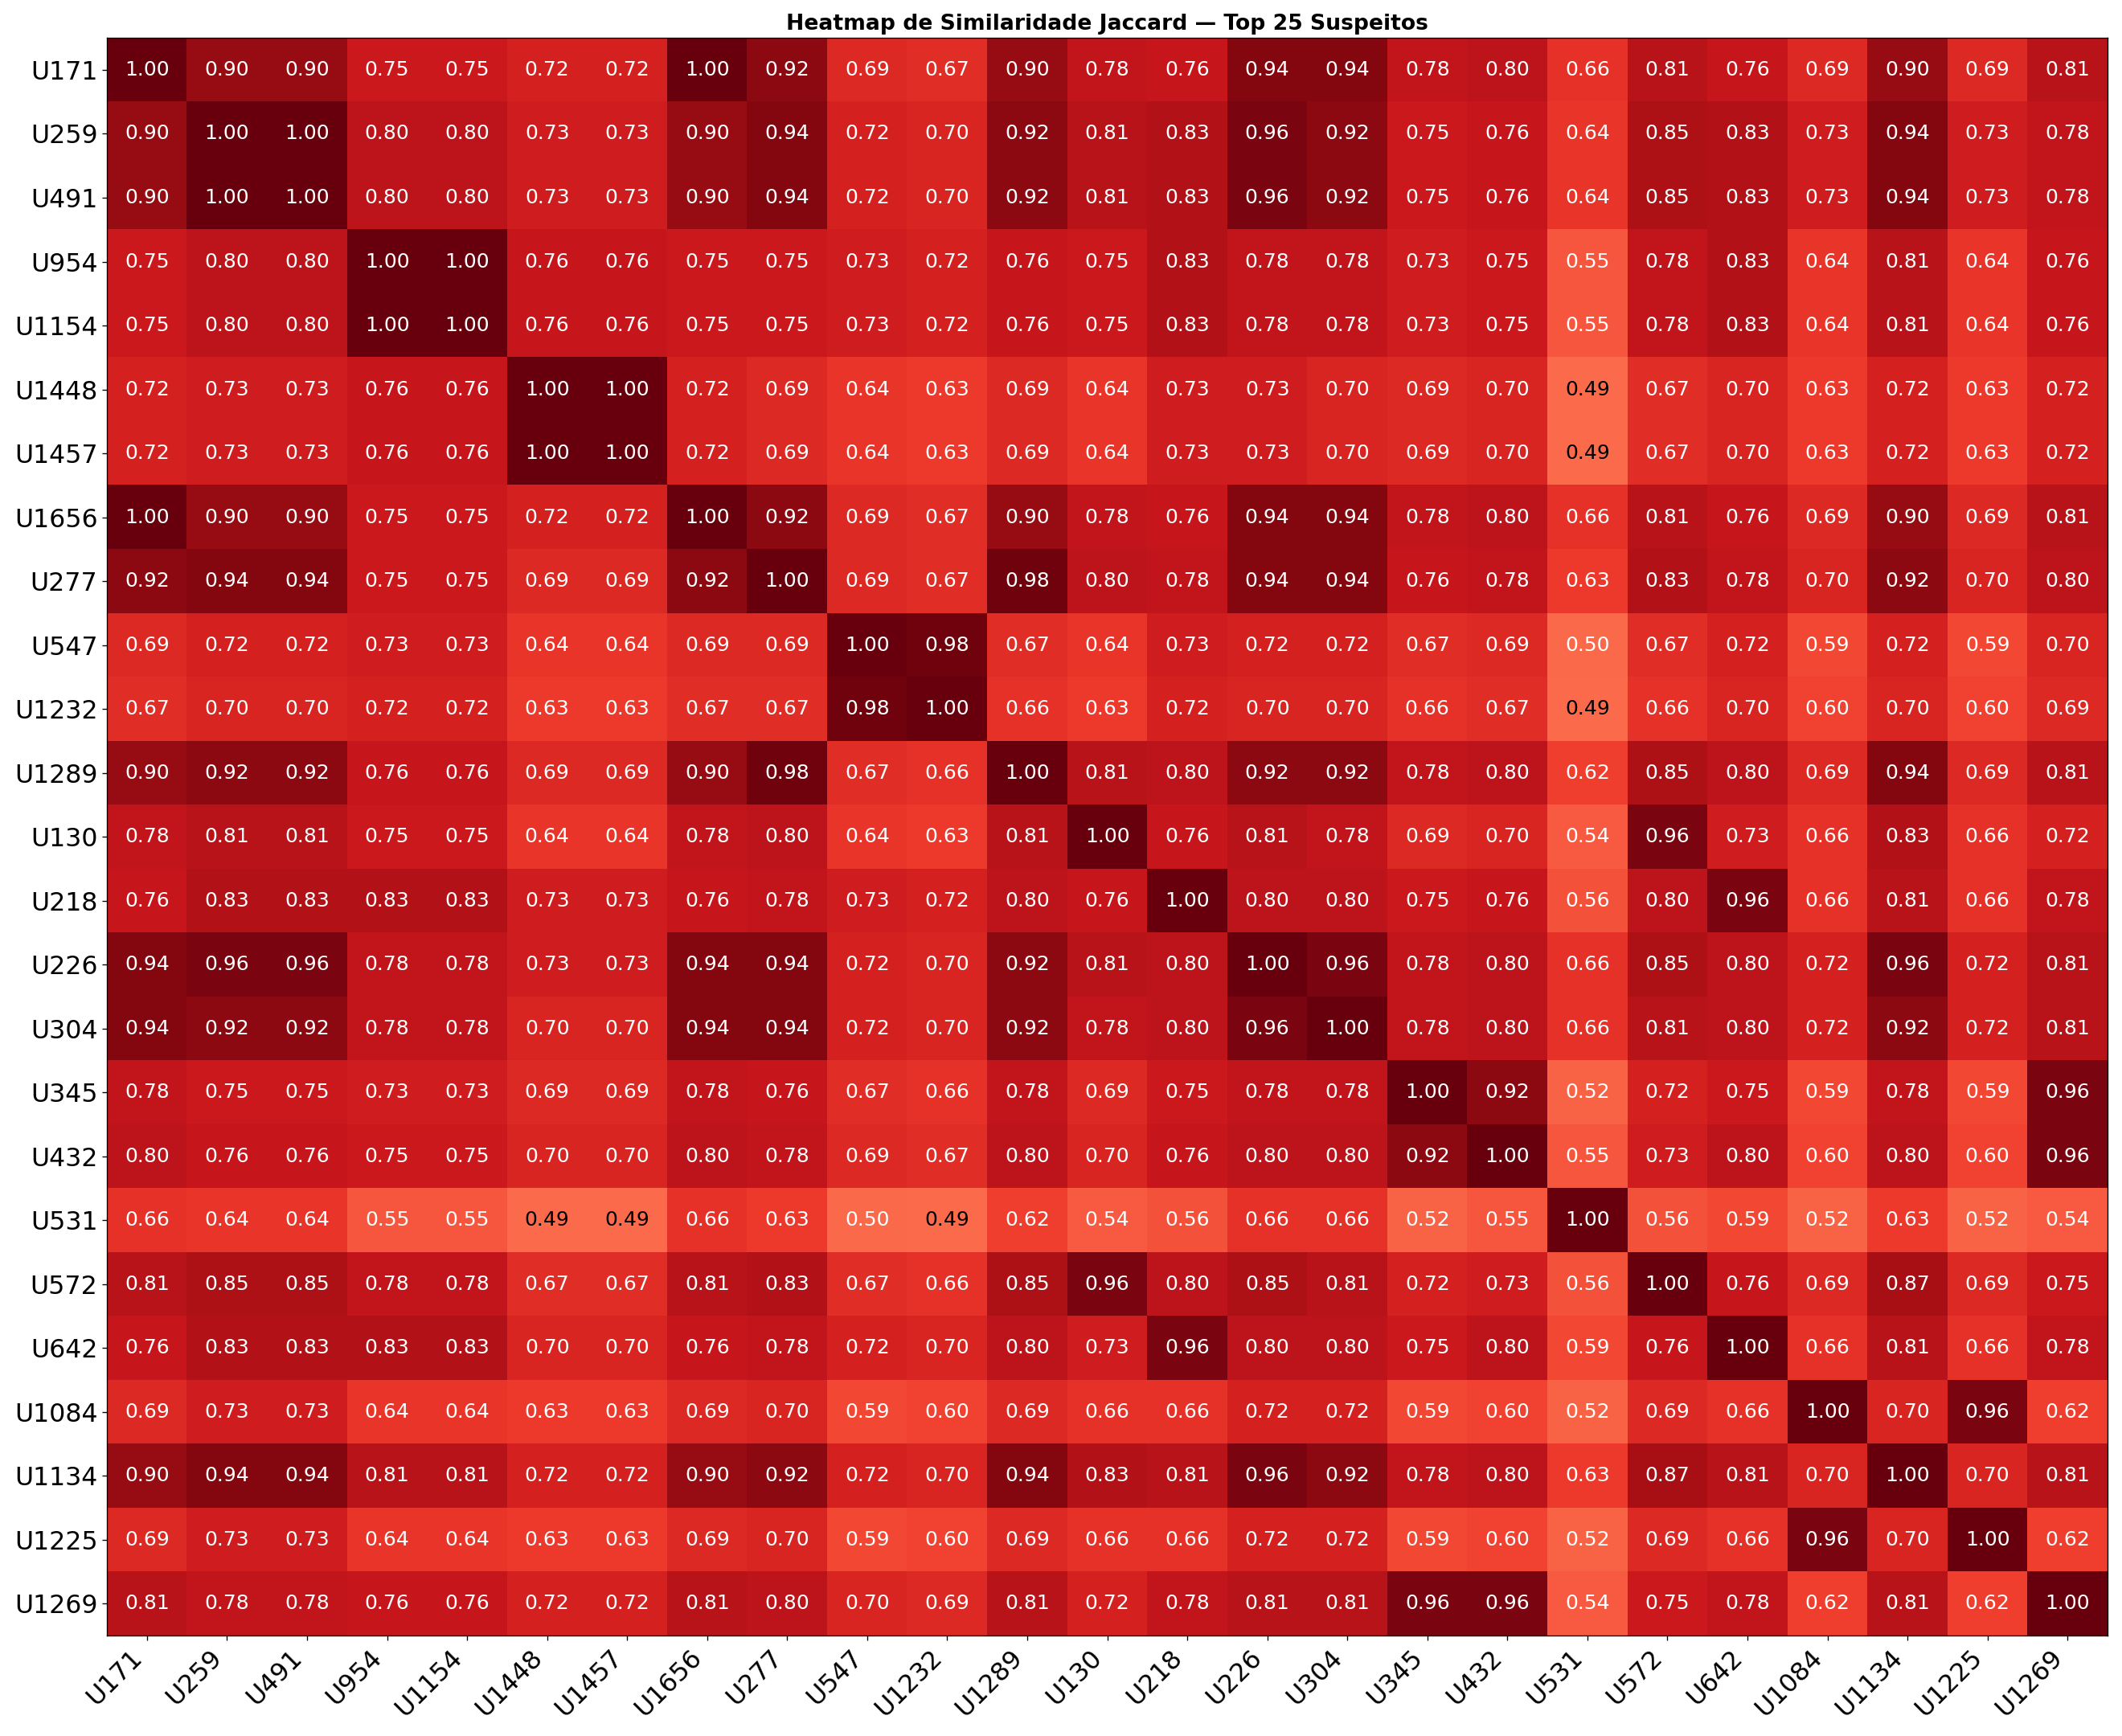
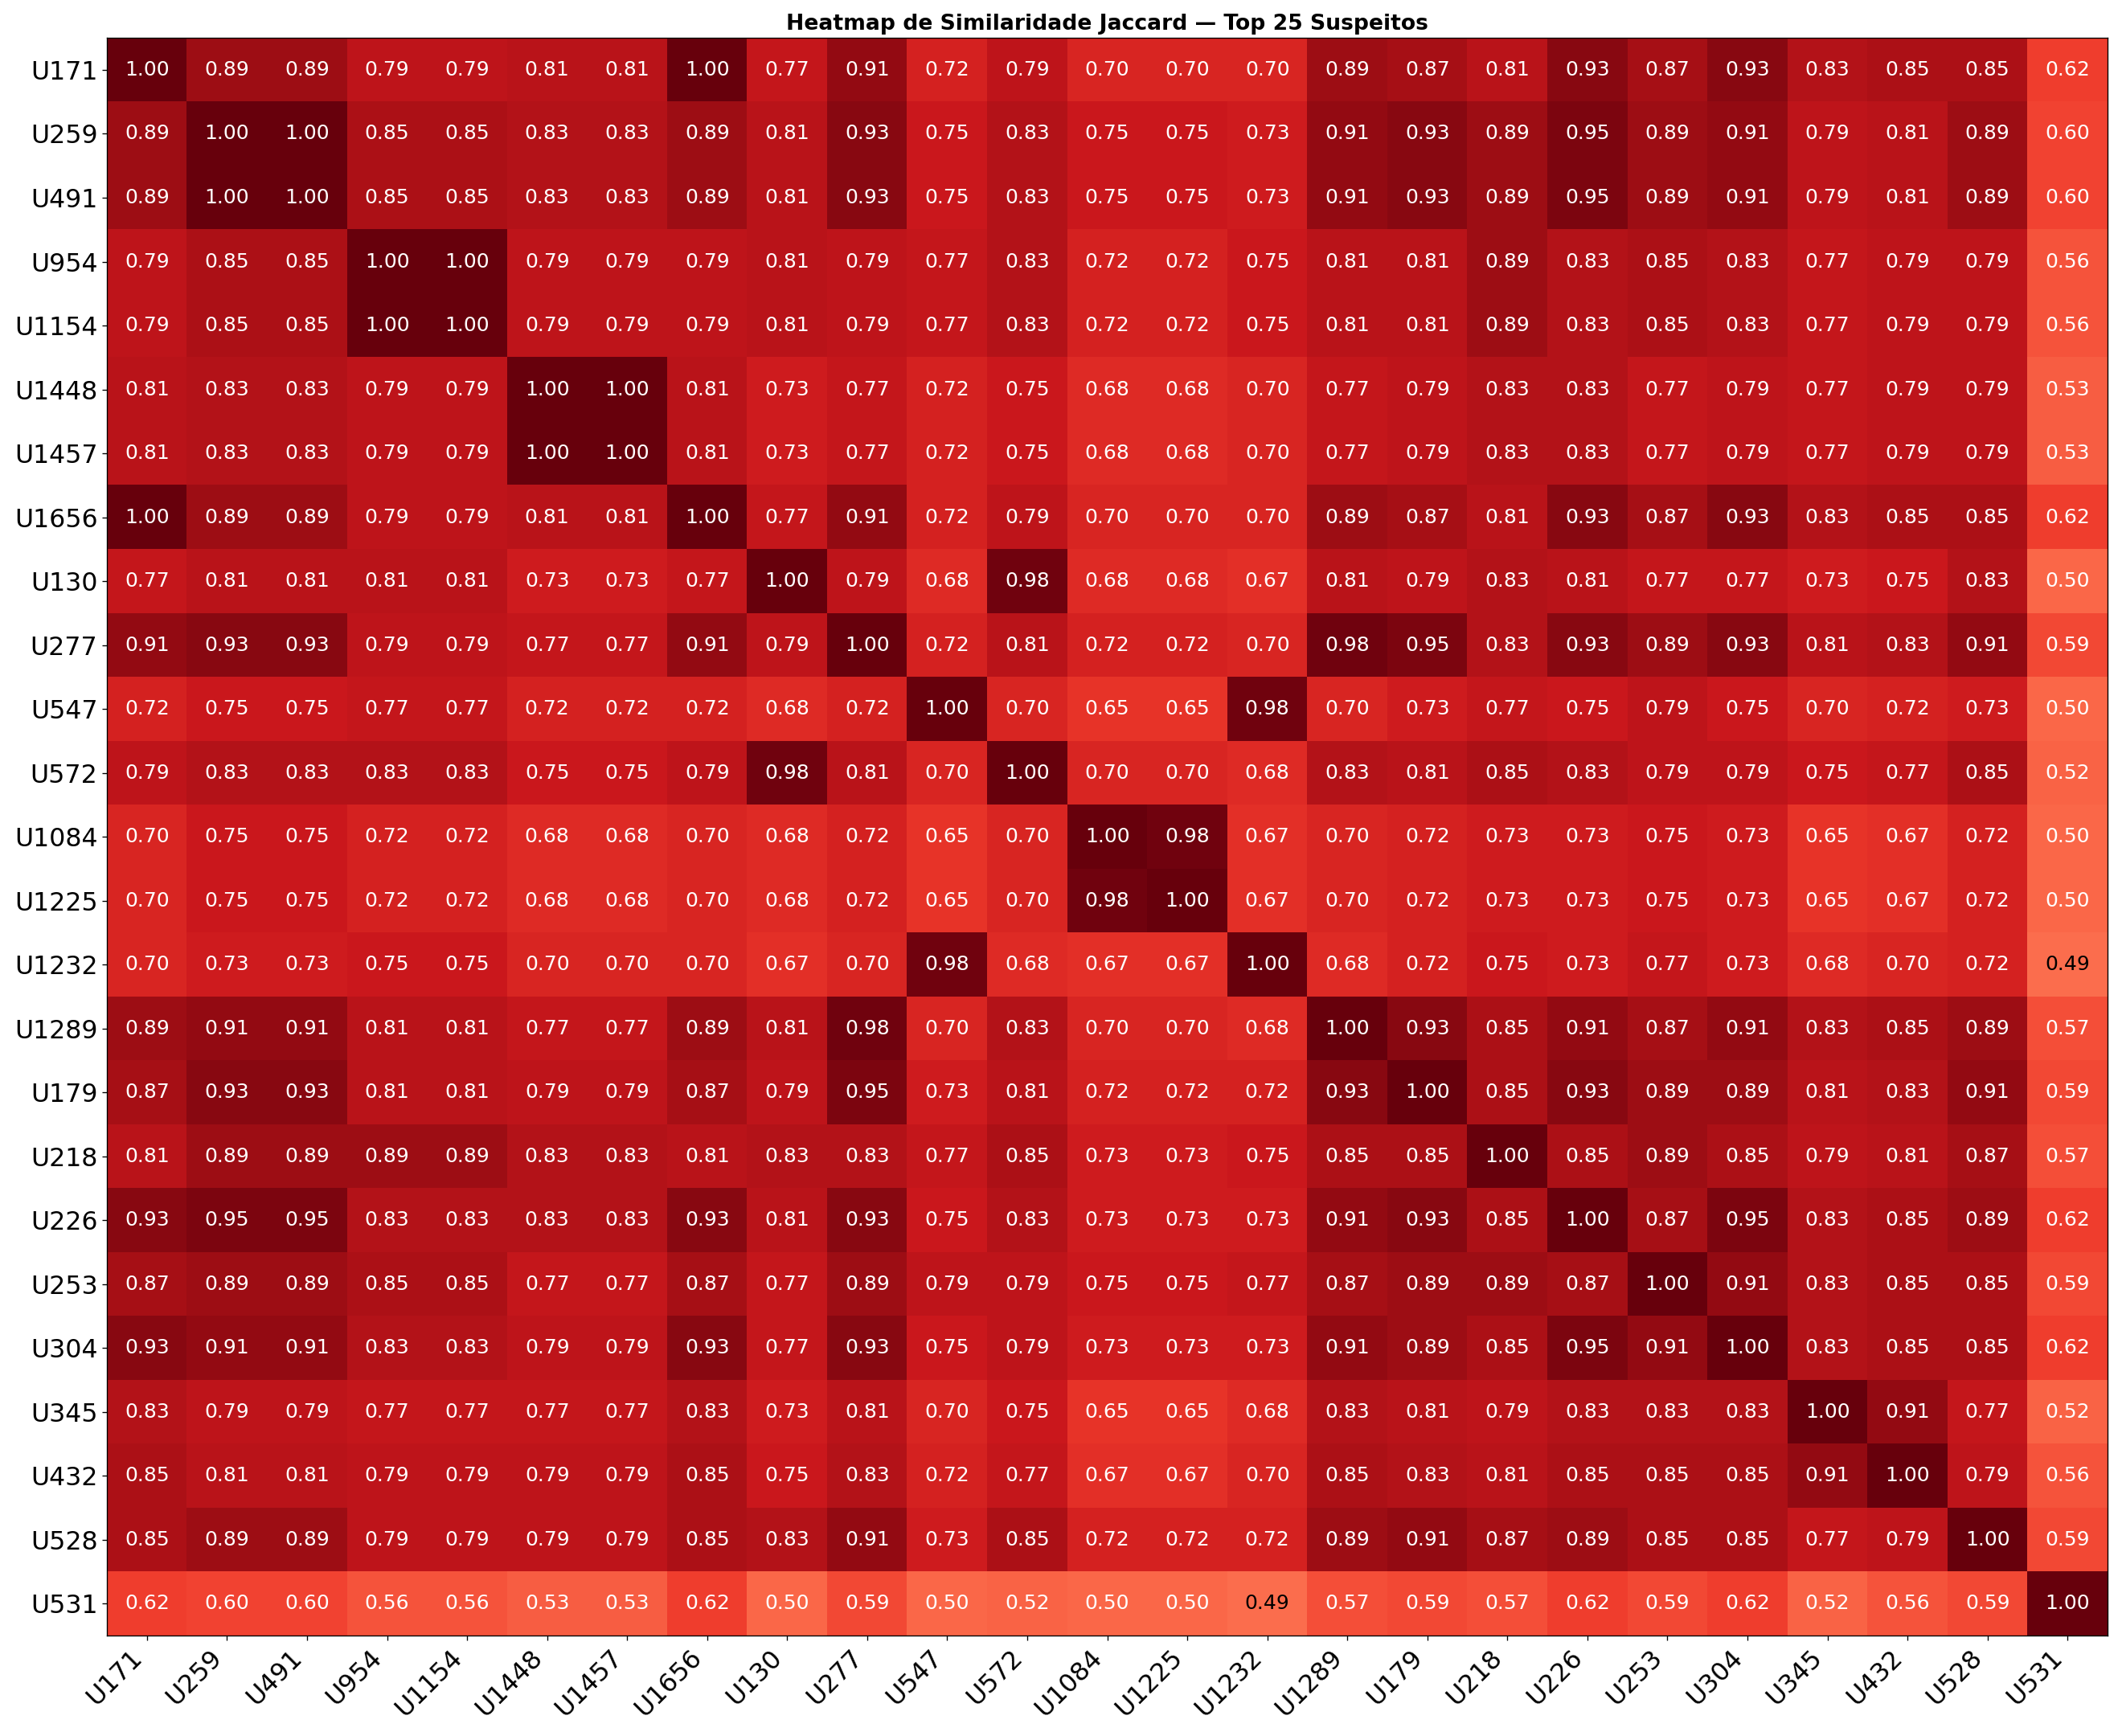
improve code readbility and table relation

diff --git a/src/services/hamming_service.py b/src/services/hamming_service.py
@@ -1,37 +1,79 @@
-class HammingService:
-    """
-    Serviço de detecção de cola baseado na Distância de Hamming.
+import random
+import numpy as np
 
-    A distância de Hamming conta o número de posições onde duas sequências
-    diferem. Adaptada para comparar sequências de respostas de alunos,
-    tratando posições ausentes como divergentes.
-    """
+
+class HammingService:
 
     @staticmethod
-    def hamming_distance(seq1, seq2):
-        """
-        Calcula a distância de Hamming entre duas sequências de respostas.
-        Posições presentes em apenas uma das sequências são contadas como diferentes.
-        Retorna o número inteiro de posições divergentes.
-        """
-        max_len = max(len(seq1), len(seq2)) if (seq1 or seq2) else 0
-        count = 0
-        for i in range(max_len):
-            a = seq1[i] if i < len(seq1) else None
-            b = seq2[i] if i < len(seq2) else None
-            if a != b:
-                count += 1
-        return count
+    def hamming_distance(a, b):
+        if len(a) != len(b):
+            raise ValueError("Sequences must be of equal length")
+        distance = 0
+        for i in range(len(a)):
+            if a[i] != b[i]:
+                distance += 1
+        return distance
 
     @staticmethod
     def hamming_similarity(seq1, seq2):
         """
-        Calcula a similaridade de Hamming normalizada entre 0 e 1.
-        Similaridade 1.0 indica sequências idênticas.
-        Similaridade 0.0 indica que todas as posições diferem.
+        Pairwise similarity compatible with ComparisonService.compare.
+        seq1, seq2 are sets or lists of (itemId, respostaUsuario) tuples.
+        Sorts by itemId to ensure consistent ordering before comparison.
+        Returns float 0.0-1.0.
         """
-        max_len = max(len(seq1), len(seq2)) if (seq1 or seq2) else 0
-        if max_len == 0:
+        s1 = [r for _, r in sorted(seq1, key=lambda x: x[0])]
+        s2 = [r for _, r in sorted(seq2, key=lambda x: x[0])]
+
+        n = max(len(s1), len(s2))
+        if n == 0:
             return 1.0
-        distance = HammingService.hamming_distance(seq1, seq2)
-        return 1 - (distance / max_len)
+
+        dist = HammingService.hamming_distance(s1, s2)
+        return (n - dist) / n
+
+    @staticmethod
+    def kmeans_hamming(responses_cache, k=2, max_iter=10):
+        """
+        K-means clustering using Hamming distance.
+        responses_cache: dict {user_id: [{'itemId': ..., 'respostaUsuario': ...}, ...]}
+        Returns: dict {user_id: cluster_id}
+        """
+        user_ids = list(responses_cache.keys())
+        sequences = [
+            [item['respostaUsuario'] for item in sorted(responses_cache[uid], key=lambda x: x['itemId'])]
+            for uid in user_ids
+        ]
+
+        if len(sequences) < k:
+            return {uid: 0 for uid in user_ids}
+
+        centers = random.sample(sequences, k)
+
+        for _ in range(max_iter):
+            clusters = {i: [] for i in range(k)}
+
+            for seq in sequences:
+                distances = [HammingService.hamming_distance(seq, c) for c in centers]
+                cluster_id = int(np.argmin(distances))
+                clusters[cluster_id].append(seq)
+
+            new_centers = []
+            for cluster in clusters.values():
+                if not cluster:
+                    new_centers.append(random.choice(sequences))
+                    continue
+                center = []
+                for i in range(len(cluster[0])):
+                    values = [seq[i] for seq in cluster if i < len(seq)]
+                    center.append(max(set(values), key=values.count))
+                new_centers.append(center)
+
+            centers = new_centers
+
+        student_clusters = {}
+        for uid, seq in zip(user_ids, sequences):
+            distances = [HammingService.hamming_distance(seq, c) for c in centers]
+            student_clusters[uid] = int(np.argmin(distances))
+
+        return student_clusters

diff --git a/src/models/respostas_lake.py b/src/models/respostas_lake.py
@@ -12,34 +12,36 @@ class RespostasLake(db.Model):
     itemId = db.Column(db.Integer, nullable=False)
     respostaUsuario = db.Column(db.String(255), nullable=True)
     userId = db.Column(db.Integer, nullable=False)
+    tipoProva           = db.Column(db.String(10), nullable=True)
+    dataHoraFim         = db.Column(db.DateTime, nullable=True)
+    salvarTempoResposta = db.Column(db.Boolean, nullable=True)
+
 
     def __repr__(self):
-        return f'<RespostasLake {self.id} - {self.tipo_acao}>'
+        return f'<RespostasLake {self.id}>'
 
     def to_dict(self):
         return {
             'id': self.id,
+            'sourceId': self.sourceId,
+            'contestId': self.contestId,
             'respondidaEm': self.respondidaEm.isoformat() if self.respondidaEm else None,
-            'tipo_acao': self.tipo_acao,
             'itemId': self.itemId,
-            'fonte': self.fonte,
             'respostaUsuario': self.respostaUsuario,
-            'plataforma': self.plataforma,
-            'userId': self.userId
+            'userId': self.userId,
+            'tipoProva': self.tipoProva,
+            'dataHoraFim': self.dataHoraFim.isoformat() if self.dataHoraFim else None,
+            'salvarTempoResposta': self.salvarTempoResposta,
         }
 
     @staticmethod
     def get_user_exam_metadata(exam_id):
-        """Retorna {userId: [{tipoProva, dataHoraFim}]} para o examId (idProva)."""
+        """Retorna {userId: [{tipoProva, dataHoraFim}]} para o examId."""
         rows = db.session.execute(
             db.text("""
-                SELECT u.id AS userId,
-                       ap.tipo AS tipoProva,
-                       rp.dataHoraFim
-                FROM users u
-                JOIN realiza_prova rp ON u.cpf = rp.cpf
-                JOIN APLICACAO_PROVA ap ON rp.idAplicacao = ap.idAplicacao
-                WHERE ap.idProva = :examId
+                SELECT DISTINCT userId, tipoProva, dataHoraFim
+                FROM respostas_lake
+                WHERE contestId = :examId
             """),
             {"examId": exam_id}
         ).fetchall()
@@ -58,7 +60,7 @@ class RespostasLake(db.Model):
     @staticmethod
     def get_salvar_tempo_resposta(exam_id):
         result = db.session.execute(
-            db.text("SELECT salvarTempoResposta FROM PROVA WHERE idProva = :examId"),
+            db.text("SELECT salvarTempoResposta FROM respostas_lake WHERE contestId = :examId AND salvarTempoResposta IS NOT NULL LIMIT 1"),
             {"examId": exam_id}
         ).fetchone()
         if result is None:

diff --git a/src/services/comparasion_service.py b/src/services/comparasion_service.py
@@ -2,8 +2,7 @@ from datetime import datetime
 from src.models.respostas_lake import RespostasLake
 from src.services.damerau_levenshtein_service import DamerauLevenshteinService
 from src.services.jaccard_service import JaccardService
-from src.services.kmeans_levenshtein_service import KMeansLevenshteinService
-
+from src.services.hamming_service import HammingService
 
 class ComparisonService:
     # pylint: disable=no-method-argument,redefined-outer-name,reimported,import-outside-toplevel
@@ -64,7 +63,7 @@ class ComparisonService:
                 uid: RespostasLake.select_user_questions(uid, exam_id, withTimestamp=with_timestamp)
                 for uid in all_users
             }
-        return KMeansLevenshteinService.kmeans_hamming(responses_cache, k=k, max_iter=max_iter)
+        return HammingService.kmeans_hamming(responses_cache, k=k, max_iter=max_iter)
 
     @staticmethod
     def process_user_batch(user_batch, all_users, exam_id=None, responses_cache=None, with_timestamp=None):
@@ -100,9 +99,9 @@ class ComparisonService:
                                                            respostas_other_user,
                                                            JaccardService.jaccard_index)
 
-                lev_result = ComparisonService.compare(current_user_response,
-                                                       respostas_other_user,
-                                                       KMeansLevenshteinService.hamming_similarity)
+                hamming_result = ComparisonService.compare(current_user_response,
+                                                          respostas_other_user,
+                                                          HammingService.hamming_similarity)
 
                 if with_timestamp:
                     dl_result = ComparisonService.compare_by_timestamp(current_user_response,
@@ -127,7 +126,7 @@ class ComparisonService:
 
                 result['jaccard_index'] = jaccard_result
                 result['dl_similarity'], result['dl_operations'] = dl_result
-                result['lev_similarity'] = lev_result
+                result['hamming_similarity'] = hamming_result
 
                 batch_results.append(result)
 

diff --git a/src/controllers/comparison_controller.py b/src/controllers/comparison_controller.py
@@ -71,7 +71,7 @@ def compare_similarity(query_args):
         {
             'user': item['user'],
             'compared_with': item['compared_with'],
-            'lev_similarity': item.get('lev_similarity'),
+            'hamming_similarity': item.get('hamming_similarity'),
             'jaccard_index': item.get('jaccard_index'),
             'dl_similarity': item.get('dl_similarity'),
             'dl_operations': item.get('dl_operations'),

diff --git a/src/schemas.py b/src/schemas.py
@@ -67,7 +67,7 @@ class ComparisonItemSchema(ma.Schema):
     jaccard_index = ma.fields.Float(allow_none=True)
     dl_similarity = ma.fields.Float(allow_none=True)
     dl_operations = ma.fields.Int(allow_none=True)
-    lev_similarity = ma.fields.Float(allow_none=True)
+    hamming_similarity = ma.fields.Float(allow_none=True)
     totalUser = ma.fields.Int()
     totalComparedUser = ma.fields.Int()
     time_result_diff = ma.fields.Float(allow_none=True)